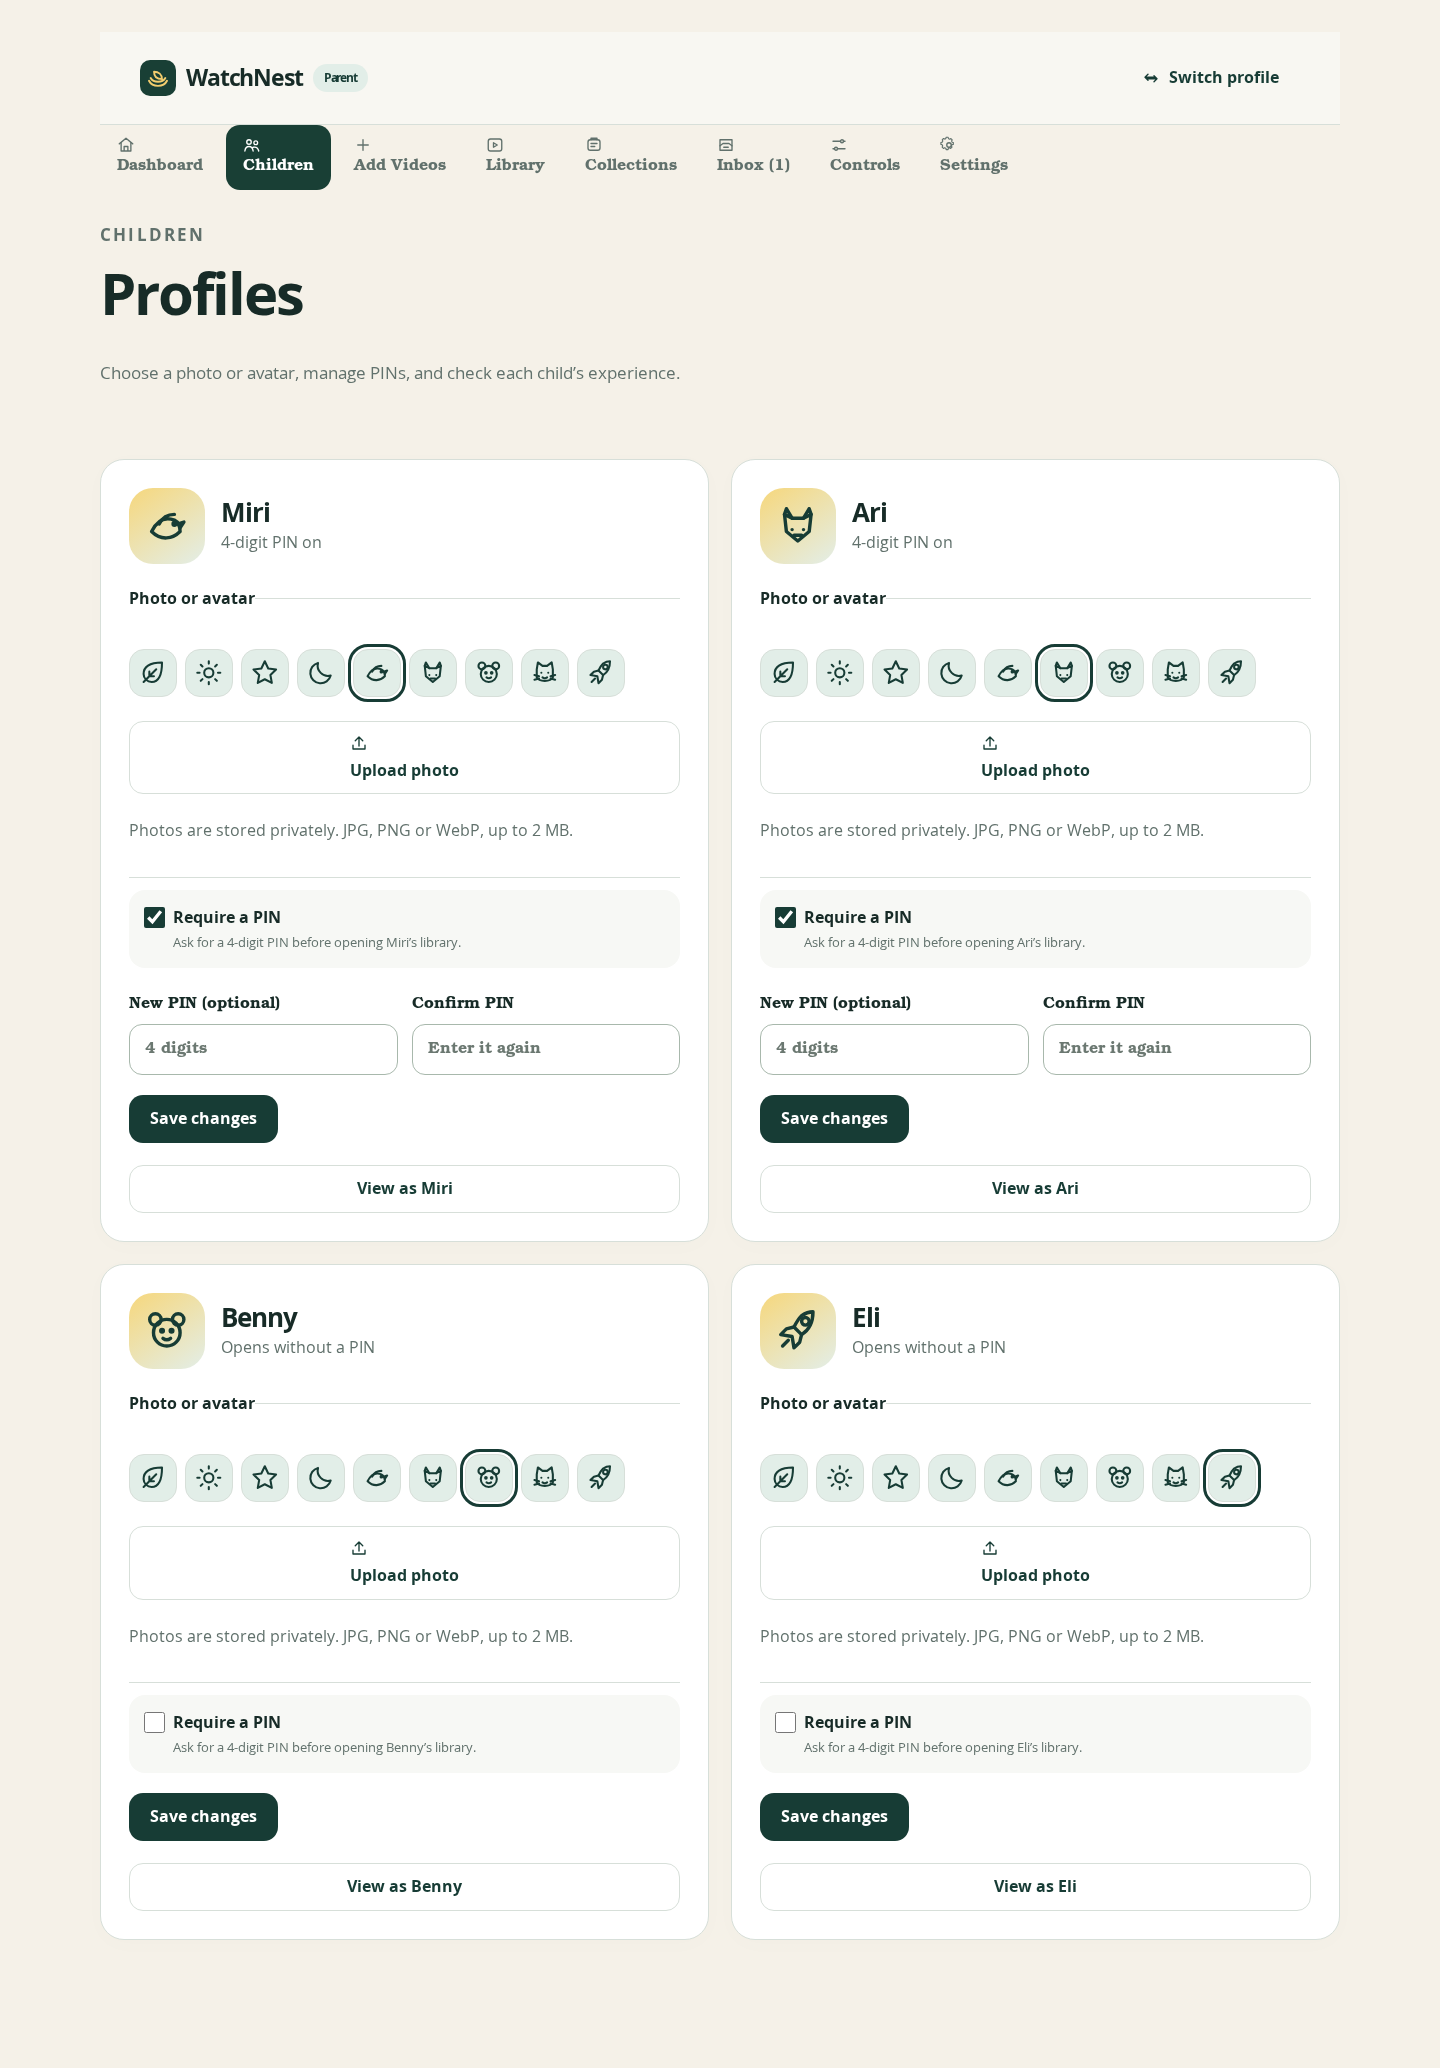
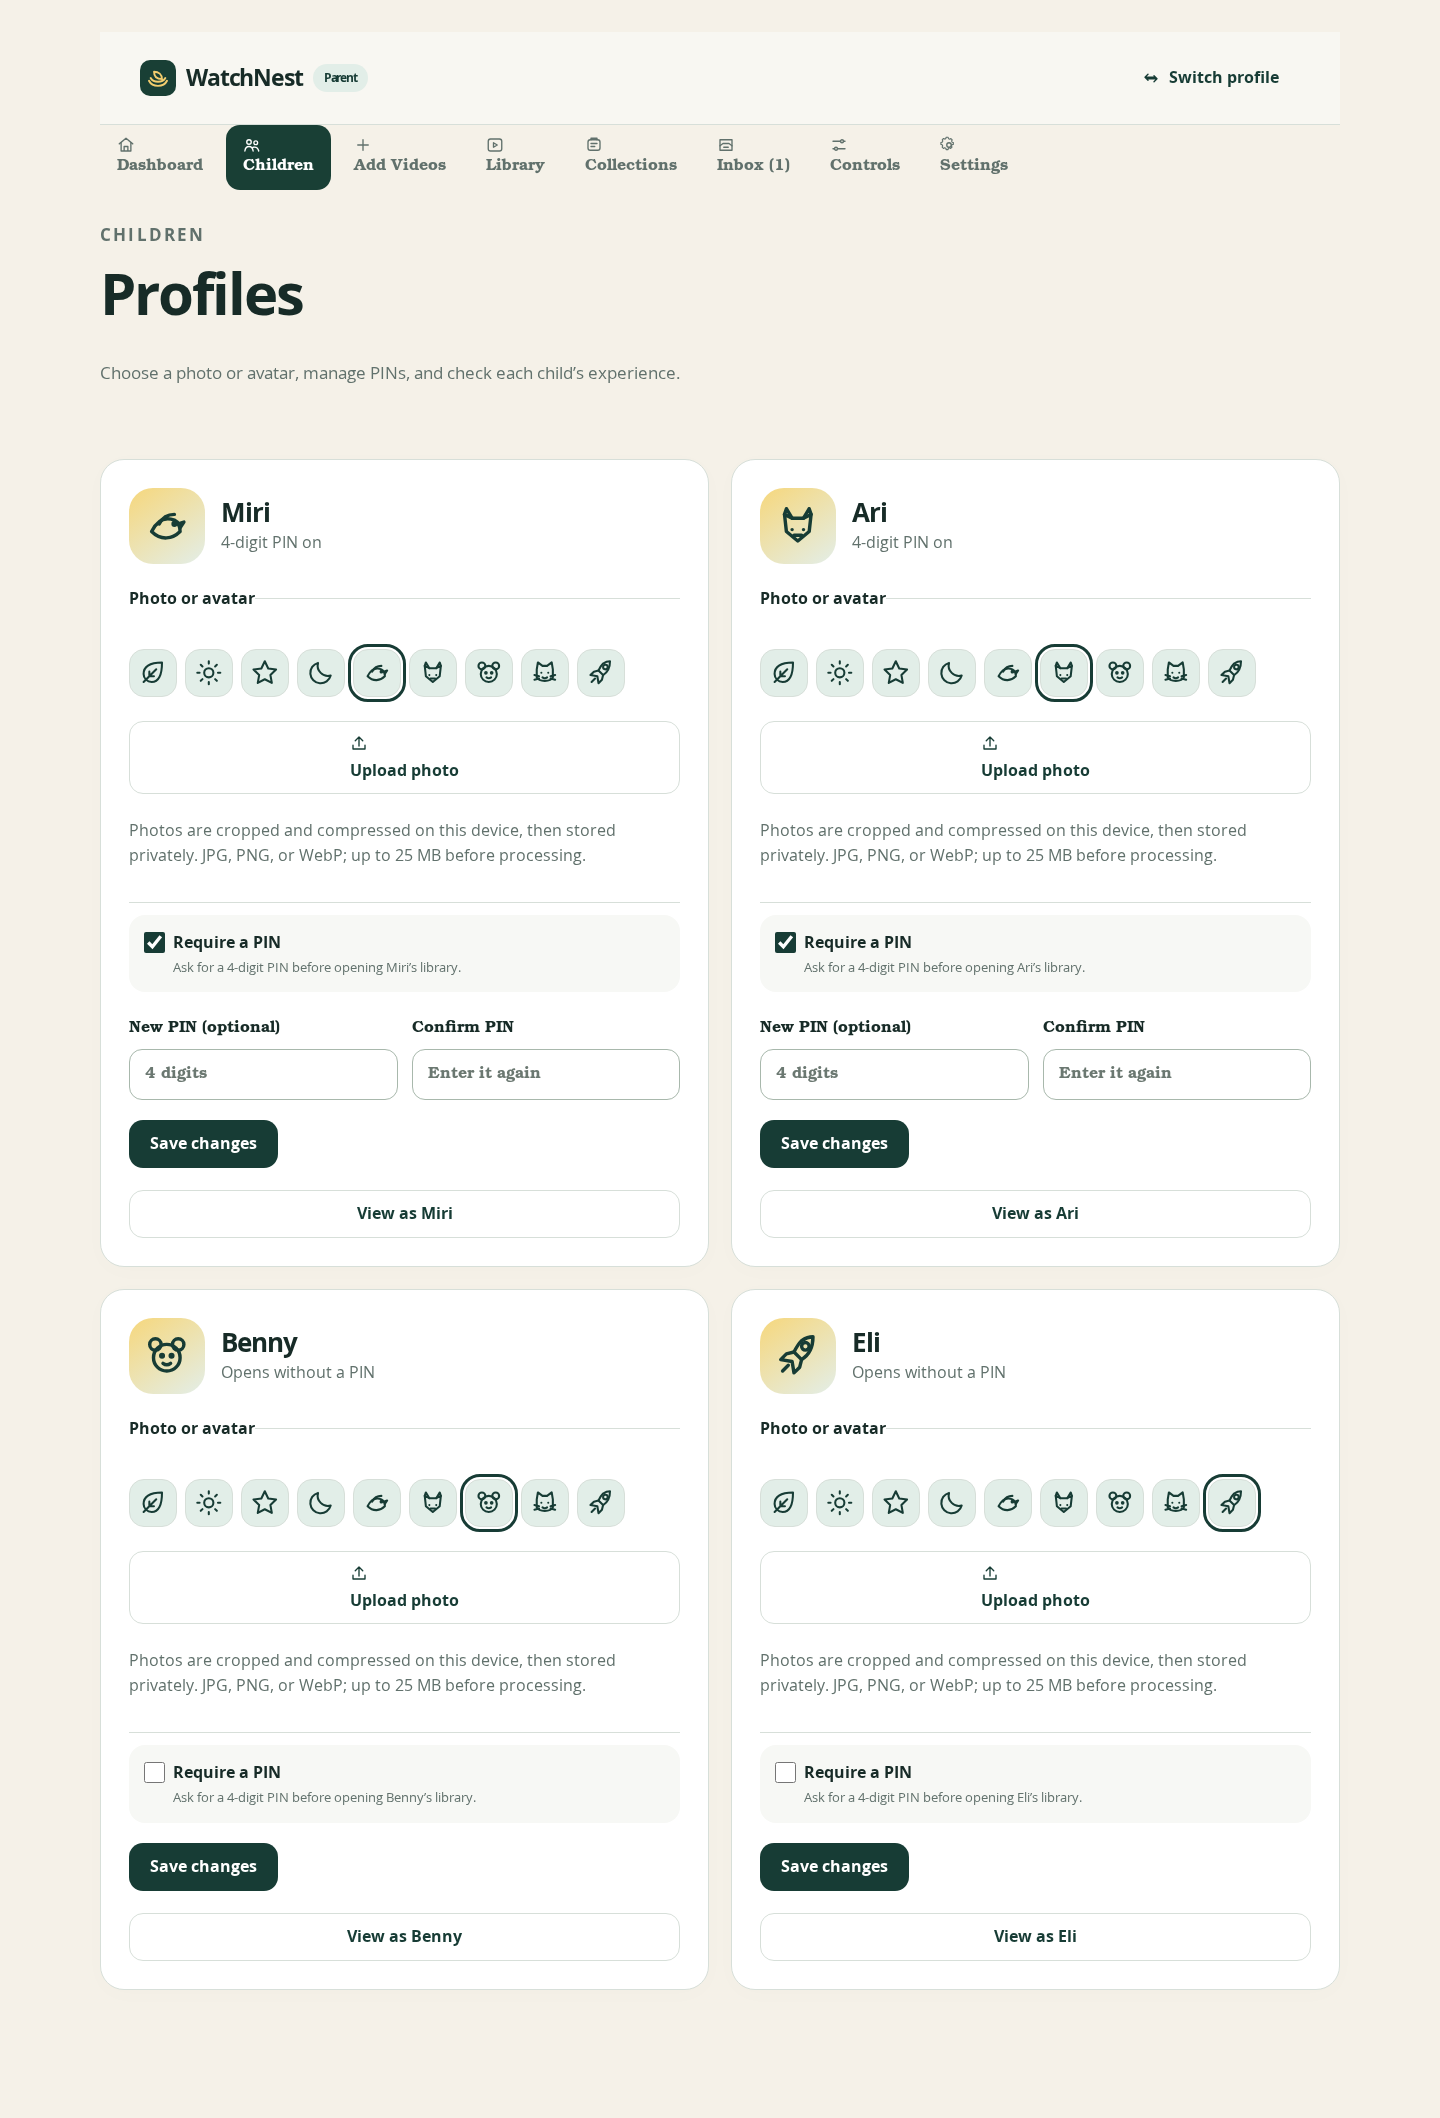
test: converge family beta visual evidence

diff --git a/e2e/visual.spec.ts b/e2e/visual.spec.ts
@@ -23,6 +23,19 @@ test("synthetic visual evidence: parent and child surfaces", async ({
     path: "docs/evidence/parent-children-synthetic.png",
     fullPage: true,
   });
+  await page.setViewportSize({ width: 1024, height: 900 });
+  await page.goto("/parent/settings");
+  await expect(page.getByRole("heading", { name: "Safe Playback" })).toBeVisible();
+  await page.screenshot({
+    path: "docs/evidence/parent-settings-tablet-synthetic.png",
+    fullPage: true,
+  });
+  await page.goto("/parent/add-video");
+  await expect(page.getByRole("heading", { name: "Find videos" })).toBeVisible();
+  await page.screenshot({
+    path: "docs/evidence/parent-add-videos-tablet-synthetic.png",
+    fullPage: true,
+  });
   await page.unroute("**/api/**");
   await fixture(page, "child");
   await page.setViewportSize({ width: 1024, height: 768 });

diff --git a/src/app/watch/watch.css b/src/app/watch/watch.css
@@ -317,7 +317,7 @@
   color: #6c7c76;
 }
 .child-video-copy {
-  padding: 17px 52px 18px 18px;
+  padding: 17px 142px 18px 18px;
 }
 .child-video-copy h3 {
   font-size: 1.05rem;
@@ -355,14 +355,14 @@
 }
 .hide-video-button {
   position: absolute;
-  left: 10px;
-  top: 10px;
+  right: 58px;
+  bottom: 14px;
   min-height: 34px;
   padding: 6px 11px;
-  border: 1px solid #ffffff99;
+  border: 1px solid #d8dfda;
   border-radius: 999px;
-  background: #102822d9;
-  color: #fff;
+  background: #fff;
+  color: #527067;
   font: inherit;
   font-size: 12px;
   font-weight: 800;

diff --git a/src/components/parent/ParentApp.tsx b/src/components/parent/ParentApp.tsx
@@ -1693,7 +1693,7 @@ function ChildSettings({ profile }: { profile: Profile }) {
           )}
           <p className="muted">
             Photos are cropped and compressed on this device, then stored
-            privately. JPG, PNG or WebP, up to 25 MB before processing.
+            privately. JPG, PNG, or WebP; up to 25 MB before processing.
           </p>
         </fieldset>
         <label className={styles.toggle}>
